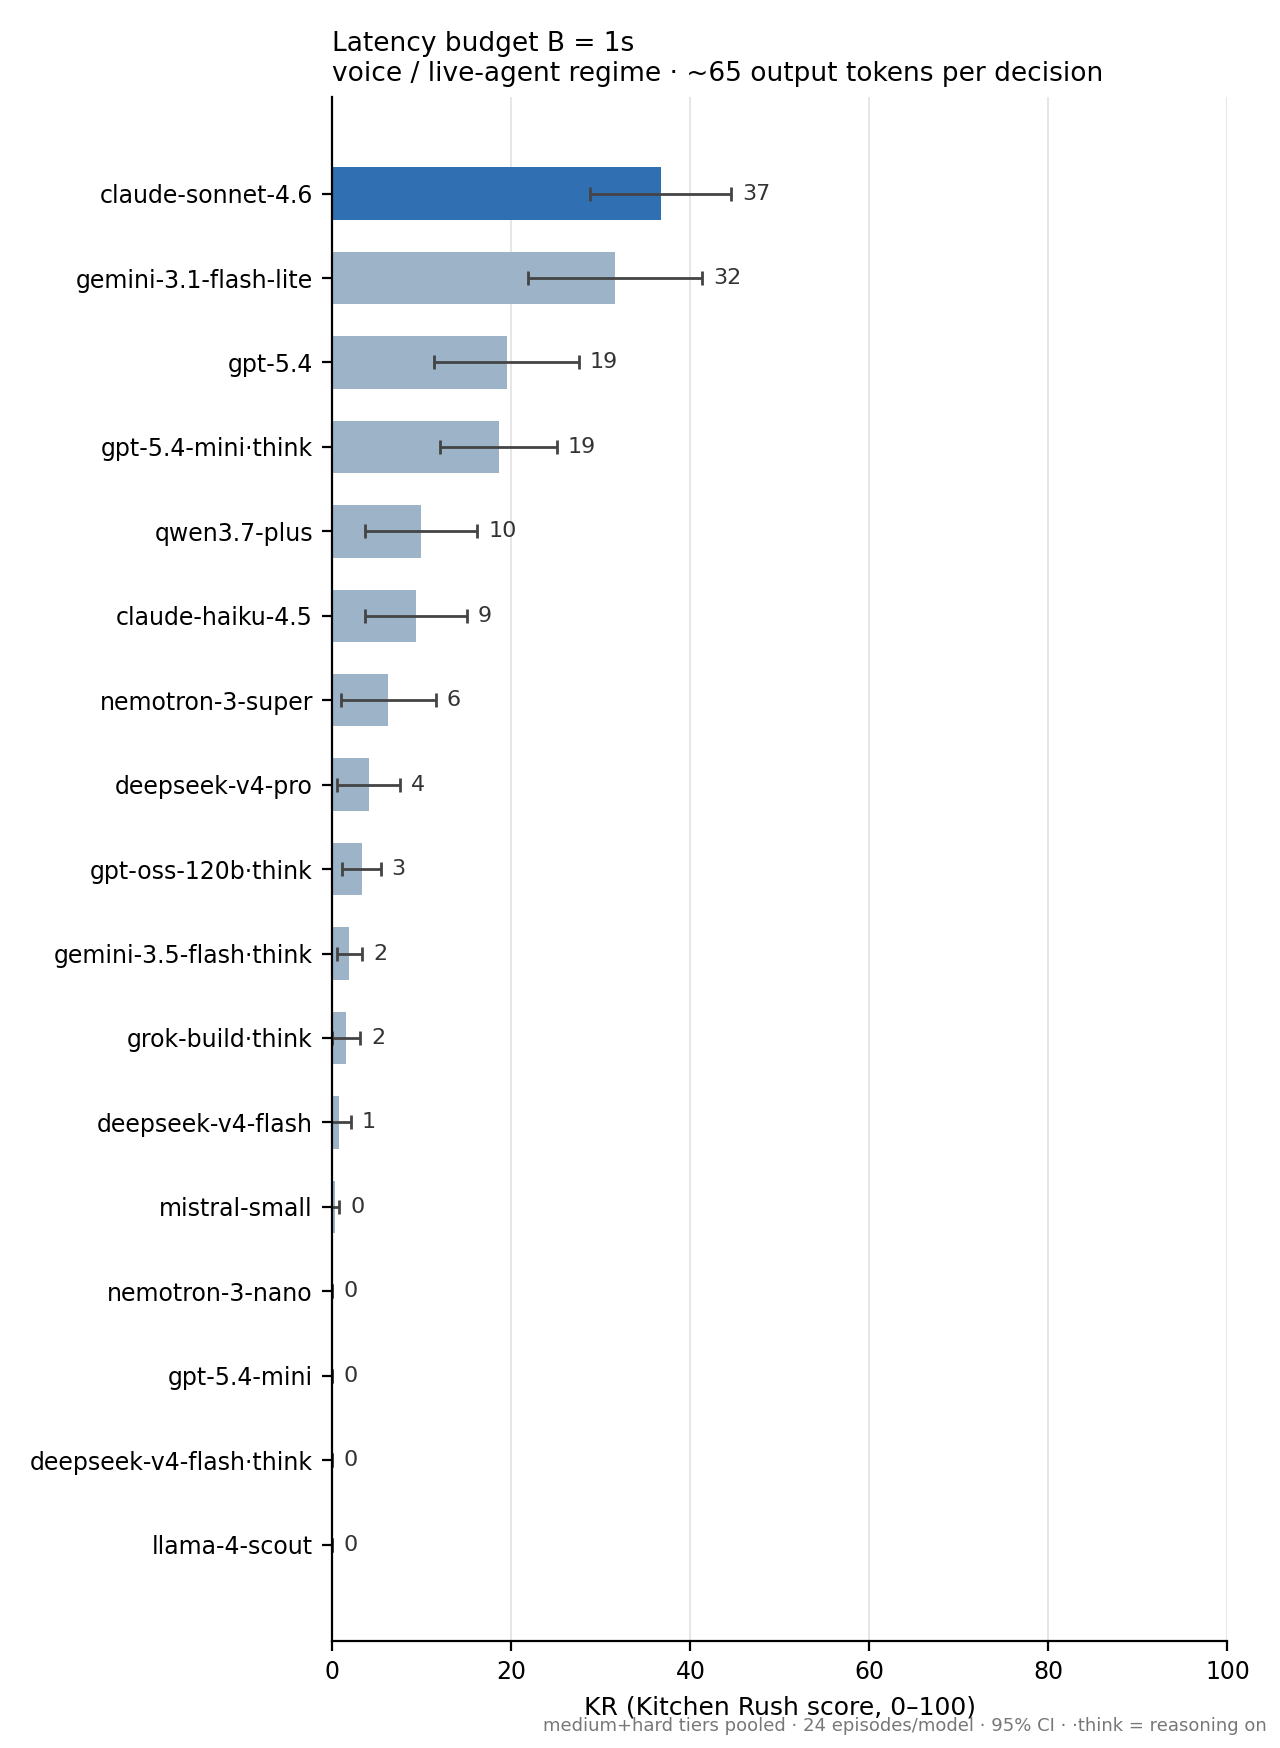
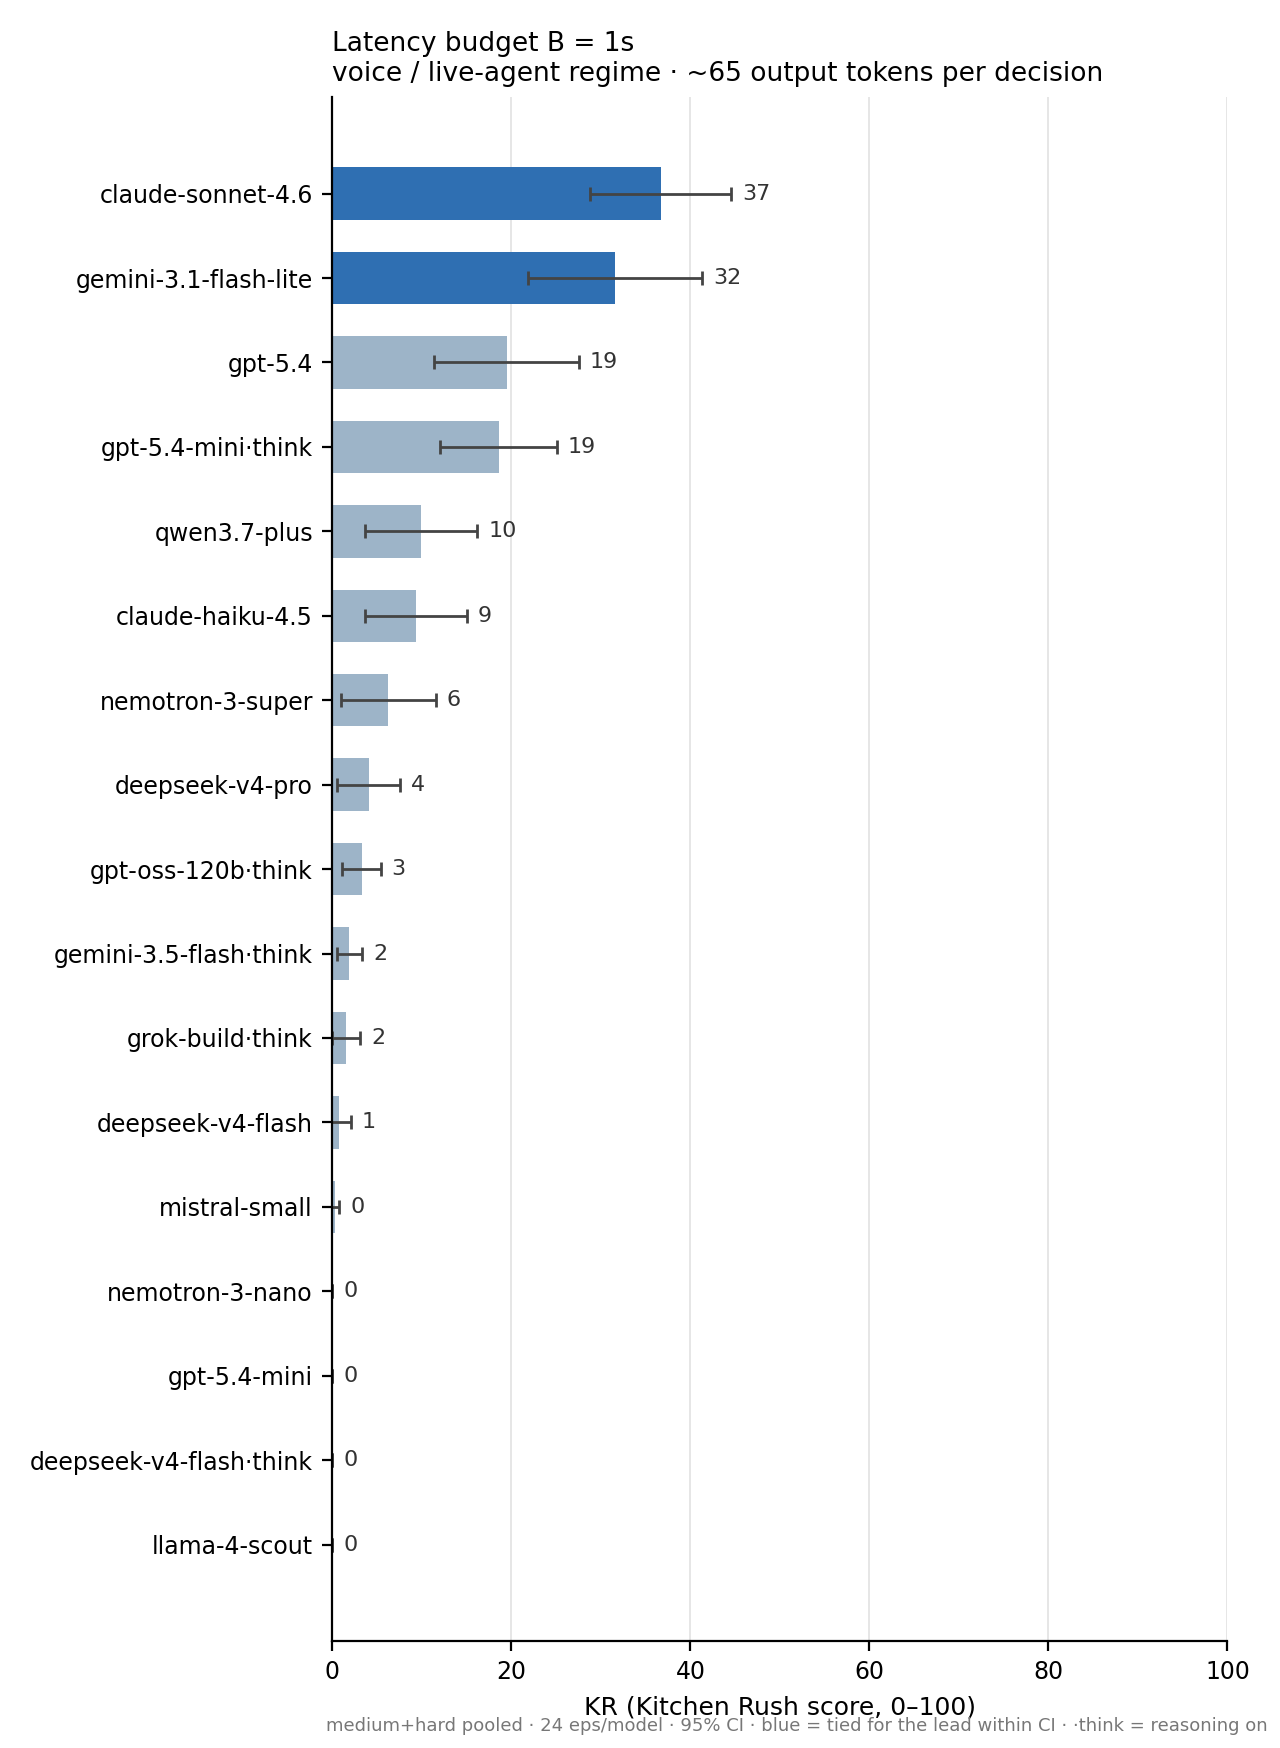
Charts: statistical ties share the leader highlight
A 0.8-KR edge (sonnet 44.45 vs mini-think 43.62 at B=5) was getting the only
dark bar, which reads as a decided winner. Now every bar whose 95% CI reaches
the top mean gets the accent: B=5 shows sonnet + gpt-5.4-mini-think tied for
the lead, B=1 shows sonnet + gemini-3.1-flash-lite. Footer documents the rule.

diff --git a/scripts/plot_board.py b/scripts/plot_board.py
@@ -52,8 +52,11 @@ def main() -> int:
         cis = [r[2] for r in rows]
 
         fig, ax = plt.subplots(figsize=(6.4, 0.42 * len(rows) + 1.6), dpi=200)
+        # the lead is shared: accent every bar statistically tied with the top one (its 95% CI
+        # reaches the top mean), so a coin-flip ordering never reads as a decided winner
+        top = max(krs)
         bars = ax.barh(names, krs, xerr=cis, height=0.62,
-                       color=[ACCENT if k == max(krs) else MUTED for k in krs],
+                       color=[ACCENT if k + c >= top else MUTED for k, c in zip(krs, cis)],
                        error_kw={"ecolor": "#444", "capsize": 2.5, "lw": 1})
         for bar, k, ci in zip(bars, krs, cis):
             ax.text(bar.get_width() + ci + 1.2, bar.get_y() + bar.get_height() / 2,
@@ -66,7 +69,7 @@ def main() -> int:
         ax.spines[["top", "right"]].set_visible(False)
         ax.grid(axis="x", color="#e6e6e6", lw=0.7)
         ax.set_axisbelow(True)
-        fig.text(0.99, 0.01, "medium+hard tiers pooled · 24 episodes/model · 95% CI · ·think = reasoning on",
+        fig.text(0.99, 0.01, "medium+hard pooled · 24 eps/model · 95% CI · blue = tied for the lead within CI · ·think = reasoning on",
                  ha="right", fontsize=6.5, color="#777")
         fig.tight_layout()
         path = OUT / f"leaderboard_b{b:g}.png"